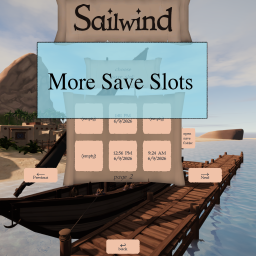
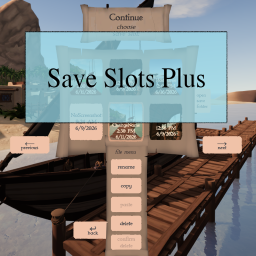
Add config for alt click. Final updates for name change.

diff --git a/SaveSlotsPlus/UI/SaveSlotsUI.cs b/SaveSlotsPlus/UI/SaveSlotsUI.cs
@@ -16,7 +16,7 @@ namespace SaveSlotsPlus
         internal const StartMenuButtonType DELETE_BUTTON = (StartMenuButtonType)19;
         internal const StartMenuButtonType CONFIRM_DELETE_BUTTON = (StartMenuButtonType)20;
 
-        internal static TextMesh PageNumTextMesh { get; private set; }        
+        internal static TextMesh PageNumTextMesh { get; private set; }
         internal static Transform FileMenuList { get; private set; }
 
         private static Transform _renameScroll;
@@ -74,7 +74,7 @@ namespace SaveSlotsPlus
             crbText.localPosition = new Vector3(0.0028f, 0.025f, 0.0009f);
             var crbTextMesh = crbText.GetComponent<TextMesh>();
             crbTextMesh.text = "confirm\nrename";
-            crbTextMesh.fontSize = 60;            
+            crbTextMesh.fontSize = 60;
             _confirmRenameButton.GetChild(0).GetComponent<StartMenuButton>().SetPrivateField("type", CONFIRM_RENAME_BUTTON);
             GameObject.Destroy(_confirmRenameButton.GetChild(1).gameObject);
             _confirmRenameButton.gameObject.SetActive(false);
@@ -157,7 +157,7 @@ namespace SaveSlotsPlus
             confirmDeleteButton.name = "confirm delete button";
             confirmDeleteButton.GetChild(1).GetComponent<TextMesh>().text = "confirm\ndelete";
             confirmDeleteButton.GetChild(0).GetComponent<StartMenuButton>().SetPrivateField("type", CONFIRM_DELETE_BUTTON);
-        }        
+        }
 
         internal static void ShowRenameInput()
         {
@@ -206,7 +206,7 @@ namespace SaveSlotsPlus
                 {
                     _listWasInactive = true;
                     return;
-                }                    
+                }
 
                 _list.gameObject.SetActive(false);
             }
@@ -221,7 +221,7 @@ namespace SaveSlotsPlus
                     _listWasInactive = false;
                     return;
                 }
-                
+
                 _list.gameObject.SetActive(true);
             }
         }
@@ -248,20 +248,23 @@ namespace SaveSlotsPlus
         {
             var t = type == PREVIOUS_BUTTON ? _previousButton : _nextButton;
             var color = isActive ? ACTIVE_COLOR : INACTIVE_COLOR;
-            TextMesh[] textMeshes;
             if (!changeBoth)
             {
-                textMeshes = t.GetComponentsInChildren<TextMesh>();
+                foreach(var textMesh in t.GetComponentsInChildren<TextMesh>())
+                {
+                    textMesh.color = color;
+                }
             }
             else
             {
-                textMeshes = _previousButton.GetComponentsInChildren<TextMesh>();
-                textMeshes.AddRangeToArray(_nextButton.GetComponentsInChildren<TextMesh>());
-            }
-
-            foreach (var textMesh in textMeshes)
-            {
-                textMesh.color = color;
+                foreach (var textMesh in _previousButton.GetComponentsInChildren<TextMesh>())
+                {
+                    textMesh.color = color;
+                }
+                foreach (var textMesh in _nextButton.GetComponentsInChildren<TextMesh>())
+                {
+                    textMesh.color = color;
+                }
             }
         }
 

diff --git a/SaveSlotsPlus/Paginator.cs b/SaveSlotsPlus/Paginator.cs
@@ -12,11 +12,11 @@ namespace SaveSlotsPlus
         internal const int SLOTS_PER_PAGE = 6;
         private static int _currentPage = 0;
         private static readonly List<GameObject> _allSlotRoots = new List<GameObject>();
-        private static BackupSavesListUI _backUpSavesListUI;        
+        private static BackupSavesListUI _backUpSavesListUI;
 
         public static void AddMoreSaveSlots(BackupSavesListUI backupSavesListUI, StartMenuButton[] existingButtons)
         {
-            _backUpSavesListUI = backupSavesListUI;            
+            _backUpSavesListUI = backupSavesListUI;
             var slotButtons = existingButtons
             .Where(b => b.GetPrivateField<StartMenuButtonType>("type") == StartMenuButtonType.Slot)
             .OrderBy(b => b.saveSlot)
@@ -61,17 +61,17 @@ namespace SaveSlotsPlus
         }
 
         public static void PreviousButtonClicked()
-        {            
+        {
             SaveSlotsUI.HideFileMenu();
             SaveSlotsUI.HideRenameInput();
             _backUpSavesListUI.HideList();
             _currentPage = Mathf.Max(0, _currentPage - 1);
             SaveSlotsUI.SetChangePageTextColor(SaveSlotsUI.PREVIOUS_BUTTON, true, true);
-            if (_currentPage == 0)            
+            if (_currentPage == 0)
                 SaveSlotsUI.SetChangePageTextColor(SaveSlotsUI.PREVIOUS_BUTTON, false);
             SaveSlotsUI.UpdatePageNumText(_currentPage);
             ShowPage(_currentPage);
-            LogDebug($"Previous button clicked, showing page {_currentPage}");
+            LogDebug($"Previous button clicked, showing page {_currentPage + 1}");
         }
 
         public static void NextButtonClicked()
@@ -85,7 +85,7 @@ namespace SaveSlotsPlus
                 SaveSlotsUI.SetChangePageTextColor(SaveSlotsUI.NEXT_BUTTON, false);
             SaveSlotsUI.UpdatePageNumText(_currentPage);
             ShowPage(_currentPage);
-            LogDebug($"Next button clicked, showing page {_currentPage}");
+            LogDebug($"Next button clicked, showing page {_currentPage + 1}");
         }
 
         private static void ShowPage(int page)
@@ -111,7 +111,7 @@ namespace SaveSlotsPlus
                 btn.SetButtonText(buttonText);
             }
 
-            RefreshSlotText(btn);            
+            RefreshSlotText(btn);
         }
 
         internal static StartMenuButton GetStartMenuButtonForSlot(int slot)

diff --git a/SaveSlotsPlus/Patches/SaveMenuPatches.cs b/SaveSlotsPlus/Patches/SaveMenuPatches.cs
@@ -68,7 +68,7 @@ namespace SaveSlotsPlus
                 {
                     FileMenu.CopyButtonClicked();
                     SaveSlotsUI.CopyButtonClicked();
-                }                    
+                }
 
                 else if (button == SaveSlotsUI.PASTE_BUTTON)
                     FileMenu.PasteButtonClicked();
@@ -106,7 +106,7 @@ namespace SaveSlotsPlus
             [HarmonyPatch("Awake")]
             public static void AwakePatch(StartMenuButton __instance, StartMenuButtonType ___type)
             {
-                if (___type == StartMenuButtonType.Slot)                
+                if (___type == StartMenuButtonType.Slot)
                     Paginator.RefreshSlotText(__instance);
             }
 
@@ -117,8 +117,8 @@ namespace SaveSlotsPlus
                 if (__instance.GetPrivateField<StartMenuButtonType>("type") != StartMenuButtonType.Slot)
                     return;
 
-                if (__instance.GetPrivateField<bool>("isLookedAt") && Input.GetMouseButtonDown(1))
-                {                    
+                if (__instance.GetPrivateField<bool>("isLookedAt") && Input.GetKeyDown(altClickKey.Value))
+                {
                     SaveSlotsUI.ToggleFileMenu(__instance);
                 }
             }
@@ -126,7 +126,7 @@ namespace SaveSlotsPlus
 
         [HarmonyPatch(typeof(BackupSavesListUI))]
         private class BackupSavesListUIPatches
-        {            
+        {
             [HarmonyPrefix]
             [HarmonyPatch("ShowList")]
             public static bool ShowList(StartMenuButton parentSlotButton, BackupSavesListUI __instance, ref int ___showingListFor)

diff --git a/SaveSlotsPlus/Utilities/Configs.cs b/SaveSlotsPlus/Utilities/Configs.cs
@@ -1,10 +1,12 @@
 using BepInEx.Configuration;
+using UnityEngine;
 
 namespace SaveSlotsPlus
 {
     internal class Configs
     {
         internal static ConfigEntry<int> numPages;
+        internal static ConfigEntry<KeyCode> altClickKey;
 
         internal static void InitializeConfigs()
         {
@@ -17,6 +19,11 @@ namespace SaveSlotsPlus
                 new ConfigDescription(
                     "The number of pages of save slots. Each page has 6 slots.",
                     new AcceptableValueRange<int>(1, 10)));
+            altClickKey = config.Bind(
+                "Settings",
+                "Alt Click Key",
+                KeyCode.Mouse1,
+                "Key to click on a save slot to open the file menu.");
         }
     }
 }

diff --git a/SaveSlotsPlus/Properties/AssemblyInfo.cs b/SaveSlotsPlus/Properties/AssemblyInfo.cs
@@ -29,5 +29,5 @@ using System.Runtime.InteropServices;
 //      Build Number
 //      Revision
 //
-[assembly: AssemblyVersion("2.0.0.0")]
-[assembly: AssemblyFileVersion("2.0.0.0")]
+[assembly: AssemblyVersion("2.1.0.0")]
+[assembly: AssemblyFileVersion("2.1.0.0")]

diff --git a/SaveSlotsPlus/SSP_Plugin.cs b/SaveSlotsPlus/SSP_Plugin.cs
@@ -8,7 +8,7 @@ namespace SaveSlotsPlus
     [BepInPlugin(PLUGIN_GUID, PLUGIN_NAME, PLUGIN_VERSION)]
     public class SSP_Plugin : BaseUnityPlugin
     {
-        public const string PLUGIN_GUID = "com.raddude.saveslotsplus";
+        public const string PLUGIN_GUID = "com.raddude82.saveslotsplus";
         public const string PLUGIN_NAME = "SaveSlotsPlus";
         public const string PLUGIN_VERSION = "2.1.0";
 

diff --git a/CHANGELOG.md b/CHANGELOG.md
@@ -2,6 +2,14 @@
 
 All notable changes to this project will be documented in this file.
 
+## [v2.1.0] - 2026-06-17
+
+### Changed
+- Renamed from MoreSaveSlots to SaveSlotsPlus.
+
+### Added
+- Config option to change what the alt click key is, defaulted to right mouse button.
+
 ## [v2.0.0] - 2026-06-16
 
 ### Added